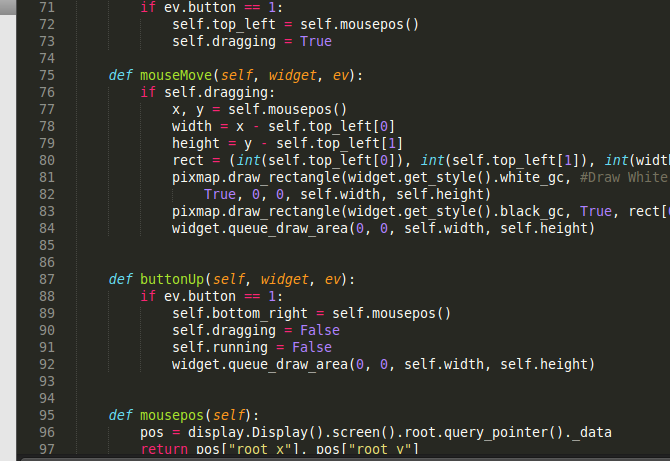
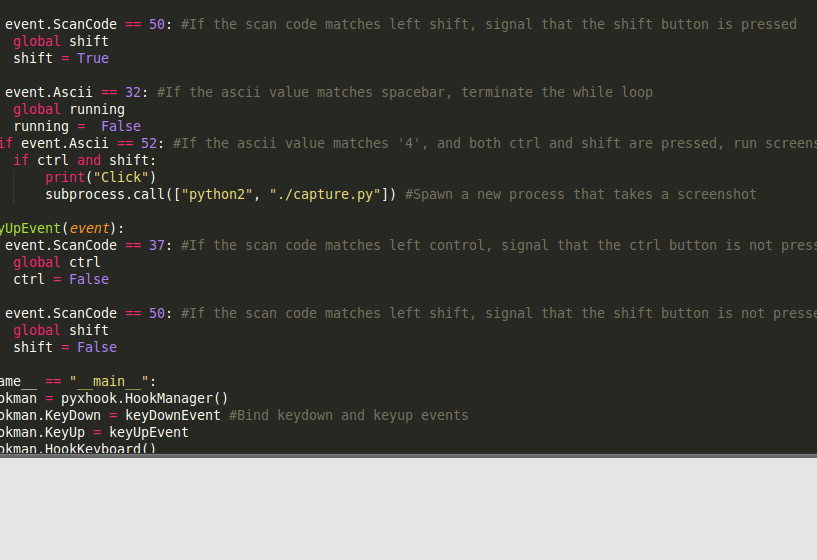
added definitions for workflows in main process

diff --git a/main.py b/main.py
@@ -19,8 +19,8 @@ def keyDownEvent(event):
 		running =  False
 	elif event.Ascii == 52: #If the ascii value matches '4', and both ctrl and shift are pressed, run screenshot.py
 		if ctrl and shift:
-			print("Click")
-			subprocess.call(["python2", "./capture.py"]) #Spawn a new process that takes a screenshot
+			print("Running Workflow #1")
+			workflow1()
 
 def keyUpEvent(event):
 	if event.ScanCode == 37: #If the scan code matches left control, signal that the ctrl button is not pressed
@@ -30,6 +30,9 @@ def keyUpEvent(event):
 	if event.ScanCode == 50: #If the scan code matches left shift, signal that the shift button is not pressed
 		global shift
 		shift = False
+
+def workflow1(): #Workflow #1
+	subprocess.call(["python2", "./capture.py"]) #Spawn a new process that takes a screenshot
 
 if __name__ == "__main__":
 	hookman = pyxhook.HookManager()
